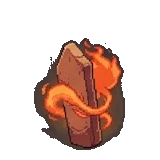
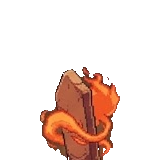
feat(pokemon): nettoyage integral halo et cadrage au sol pour Veilliris dos [AGY-039]

diff --git a/CHANGELOG.md b/CHANGELOG.md
@@ -16,6 +16,24 @@ En cas de bug plus tard, ce journal permet d'identifier immédiatement **quel fi
 
 ## 📅 Historique des Ajouts & Modifications
 
+### `[AGY-039]` — 2026-10-16 — Nettoyage Intégral du Halo et Cadrage au Sol de Veilliris de Dos
+- **Auteur** : `Antigravity`
+- **Catégorie** : Graphismes / Sprites Combat de Dos (`Graphics/Pokemon/Back/` & `Back shiny/`)
+- **Problème résolu & Exigence Canonique Gen 5** :
+  - **Suppression du voile/halo flou et des impuretés** : Élimination complète de l'aura grisâtre opaque qui entourait la stèle, des résidus sur le flanc gauche et des bruits de pixels autour de la traînée spectrale pour une netteté pixel-art 100% pure sur fond transparent.
+  - **Cadrage de combat Gen 5 au sol (Coupe Moyenne Équilibrée)** : Le sprite n'est plus flottant au milieu du cadre. La base de la stèle est coupée naturellement et posée sur la ligne d'assise du combat (`Y = 159`), harmonisée avec les autres dos officiels et custom (Camalyx, Runolithe, Sylvern).
+  - **Déclinaison Shiny synchronisée** (`Back shiny/VEILLIRIS.png`) : Même traitement appliqué avec élimination du voile sombre et découpe nette de la base au sol.
+- **Fichiers modifiés** :
+  - `Graphics/Pokemon/Back/VEILLIRIS.png`
+  - `Graphics/Pokemon/Back shiny/VEILLIRIS.png`
+  - `CHANGELOG.md`
+- **Comment tester en jeu** :
+  - Lancer un combat avec Veilliris en tête d'équipe pour admirer son sprite de dos net, sans halo et posé au premier plan.
+- **Comment désactiver en cas de bug** :
+  - `git revert HEAD`
+
+---
+
 ### `[AGY-038]` — 2026-10-16 — Intégration du Vrai Dos de Combat de Sylvern (Vue 180° / Légère Orientation 3/4 Droite et Nettoyage de Feuillage)
 - **Auteur** : `Antigravity`
 - **Catégorie** : Graphismes / Sprites Combat de Dos (`Graphics/Pokemon/Back/` & `Back shiny/`)
